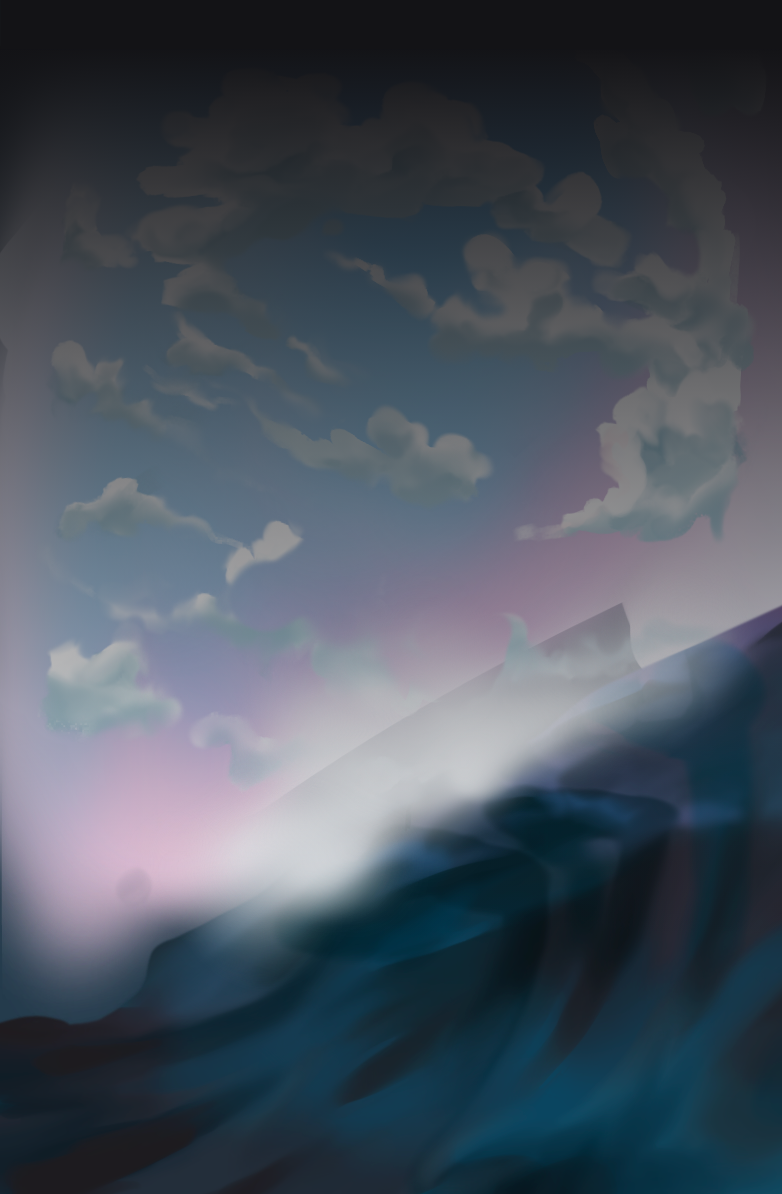
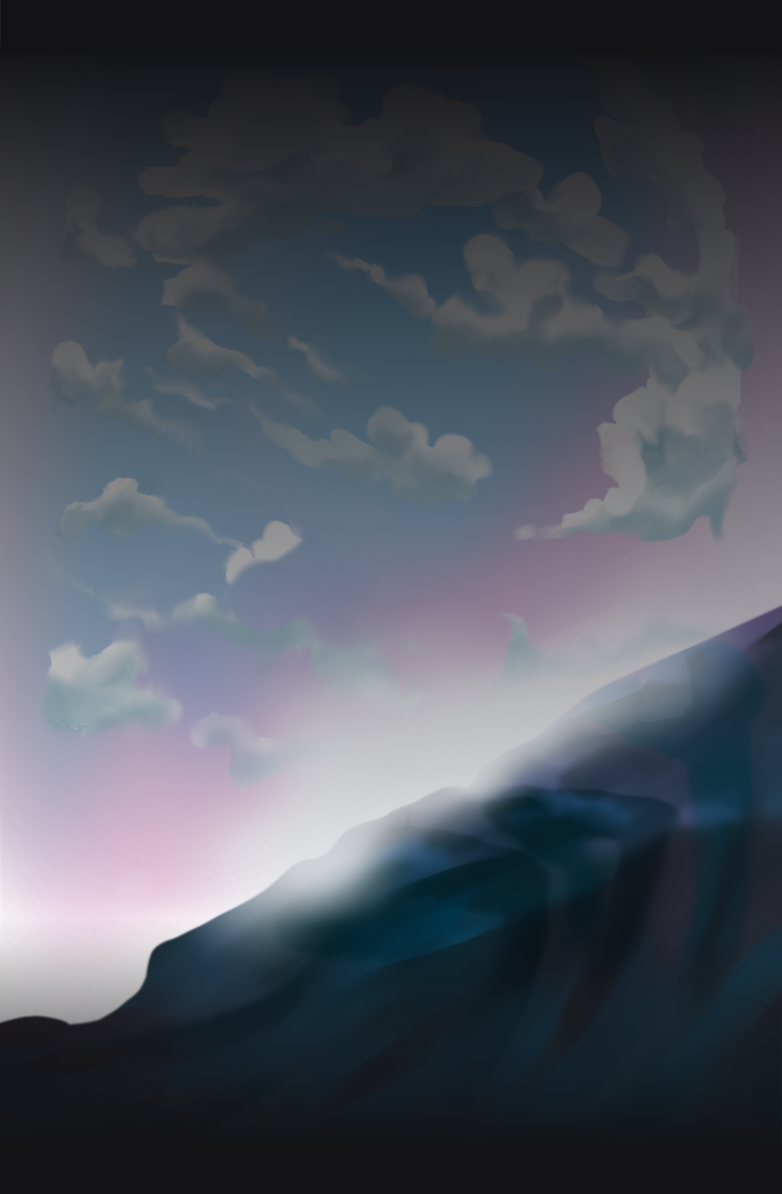
add detail to home page

Changed region(s): [[0.1535, 0.8367, 1.0, 1.0], [0.0, 0.6198, 0.3683, 0.8677], [0.7059, 0.4958, 0.8286, 0.5888]]

diff --git a/pallalax.js b/pallalax.js
@@ -8,16 +8,53 @@ let bird = document.getElementById('bird');
 
 window.addEventListener('scroll', () => {
     let value = window.scrollY;
-    text.style.marginTop = value * 0.7 + 'px';
-    castle.style.marginTop = value * 0.2 + 'px';
-    fox.style.marginRight = value * 0.5 + 'px';
-    fox.style.marginTop = value * 0.05 + 'px';
-    mermaid.style.marginTop = value * 0.1 + 'px';
+    let initialLeftMargin = 3; 
+    //scroll and margin
+
+    let scrollFactor = 0.001; 
+    let castleSize = 600 + value * 0.125; 
+    let smallerElementSize = 1200 - value * 0.05;
+
+
+
+    castle.style.width = castleSize + 'px';
+    castle.style.height = 200 + castleSize + 'px';
+    castle.style.left = 15.7 + initialLeftMargin - value * scrollFactor + '%';
+    castle.style.marginTop = value * 0.45 + 'px';
+
+    text.style.marginTop = value * 0.54 + 'px';
+    text.style.width = 350 + smallerElementSize - 850 + 'px';
+    text.style.height = smallerElementSize -850 + 'px';
+    text.style.left = 22 + initialLeftMargin + value * scrollFactor + '%';
+
+    fox.style.marginRight = value * 0.01 + 'px';
+    fox.style.marginTop = value * 0.2 + 'px';
+    fox.style.width = smallerElementSize + 'px';
+    fox.style.height = 400 + smallerElementSize + 'px';
+    fox.style.left = 10 + initialLeftMargin - value * scrollFactor + '%';
+
+    mermaid.style.marginTop = value * 0.24 + 'px';
+    mermaid.style.marginLeft = value * 0.025 + 'px';
+    mermaid.style.width = smallerElementSize + 'px';
+    mermaid.style.height = 400 + smallerElementSize + 'px';
+    mermaid.style.left = 5 + initialLeftMargin - value * scrollFactor + '%';
+
     fairy.style.marginRight = value * 0.025 + 'px';
-    fairy.style.marginTop = value * 0.025 + 'px';
+    fairy.style.marginTop = value * 0.25 + 'px';
+    fairy.style.width = smallerElementSize + 'px';
+    fairy.style.height = 400 + smallerElementSize + 'px';
+    fairy.style.left = 5 + initialLeftMargin - value * scrollFactor + '%';
+
     witch.style.marginLeft = value * 0.025 + 'px';
     witch.style.marginBottom = value * 0.025 + 'px';
-    mermaid.style.marginLeft = value * 0.025 + 'px';
-    bird.style.marginBottom = value * 0.025 + 'px';
+    witch.style.marginTop = value * 0.22 + 'px';
+    witch.style.width = smallerElementSize + 'px';
+    witch.style.height = 400 + smallerElementSize + 'px';
+    witch.style.left = 5 + initialLeftMargin - value * scrollFactor + '%';
+    
+    bird.style.marginTop = value * 0.35 + 'px';
+    bird.style.width = smallerElementSize + 'px';
+    bird.style.height = 400 + smallerElementSize + 'px';
+    bird.style.left = 7 + initialLeftMargin - value * scrollFactor + '%';
 
 });

diff --git a/index.html b/index.html
@@ -44,13 +44,19 @@
   
   <section class="pallalax">
     <img src="asset/Artopia_Poaster (1).png" alt="">
-    <img src="asset/6.PNG" alt="" id = "castle">
-    <img src="asset/9.PNG" alt="" id = "fox">
-    <img src="asset/10.PNG" alt="" id = "mermaid">
-    <img src="asset/11.PNG" alt="" id = "fairy">
+    <img src="asset/6.PNG" alt="" id = "castle"  >
+    <img src="asset/9.PNG" alt="" id = "fox" >
+    <img src="asset/14(บนสุด).PNG" id = "text" alt="" class = "hidden" style="transition: all 0">
+    <img src="asset/10.PNG" alt="" id = "mermaid" >
+    <img src="asset/11.PNG" alt="" id = "fairy" >
     <img src="asset/12.PNG" alt="" id = "witch">
-    <h1 style = "font-size: 100px;" id = "text">Artopia</h1>  
     <img src="asset/13.PNG" alt="" id = "bird">
+</section>
+
+<section class="sec">
+  <img src="asset/rock.png" alt="">
+  <h2 class  = "sec-text">Artopia</h2>
+  <p class = "sec-text">Lorem ipsum dolor sit amet consectetur adipisicing elit. Mollitia voluptas quas id quibusdam quaerat. Velit quo necessitatibus, ducimus voluptates adipisci molestias dolore laboriosam cumque quae dolorum aspernatur repudiandae similique facilis!</p>
 </section>
 
 

diff --git a/style.css b/style.css
@@ -52,12 +52,23 @@ filter : blur(0);
   width: 100%;
   pointer-events: none;
 }
-#text{
-  position: absolute;
-  font-size: 5em;
-  color: #ffffff;
-  text-shadow: 2px 2px 4px rgba(0, 0, 0, 0.2);
-  margin-top: 50%;
+
+.sec {
+  margin-top: 130%;
+  position: relative;
+  align-items: left;
+}
+.sec-text {
+  padding-left : 100px;
+  padding-right : 100px;
+}
+
+.sec img{
+  width: 100%;
+}
+
+.sec h2{
+  font-size: 3em;
 }
 
 .bg-blur {
